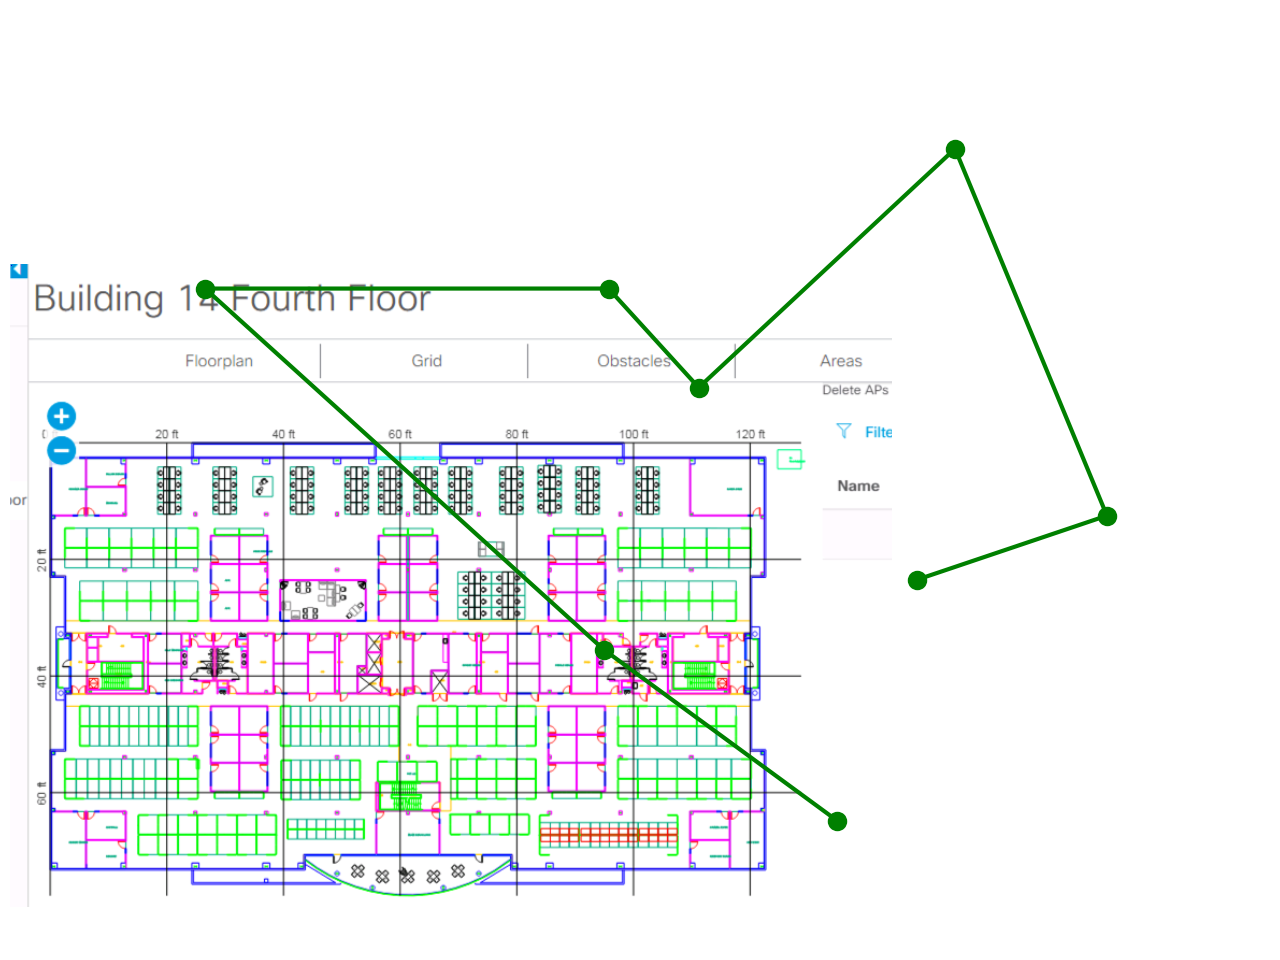
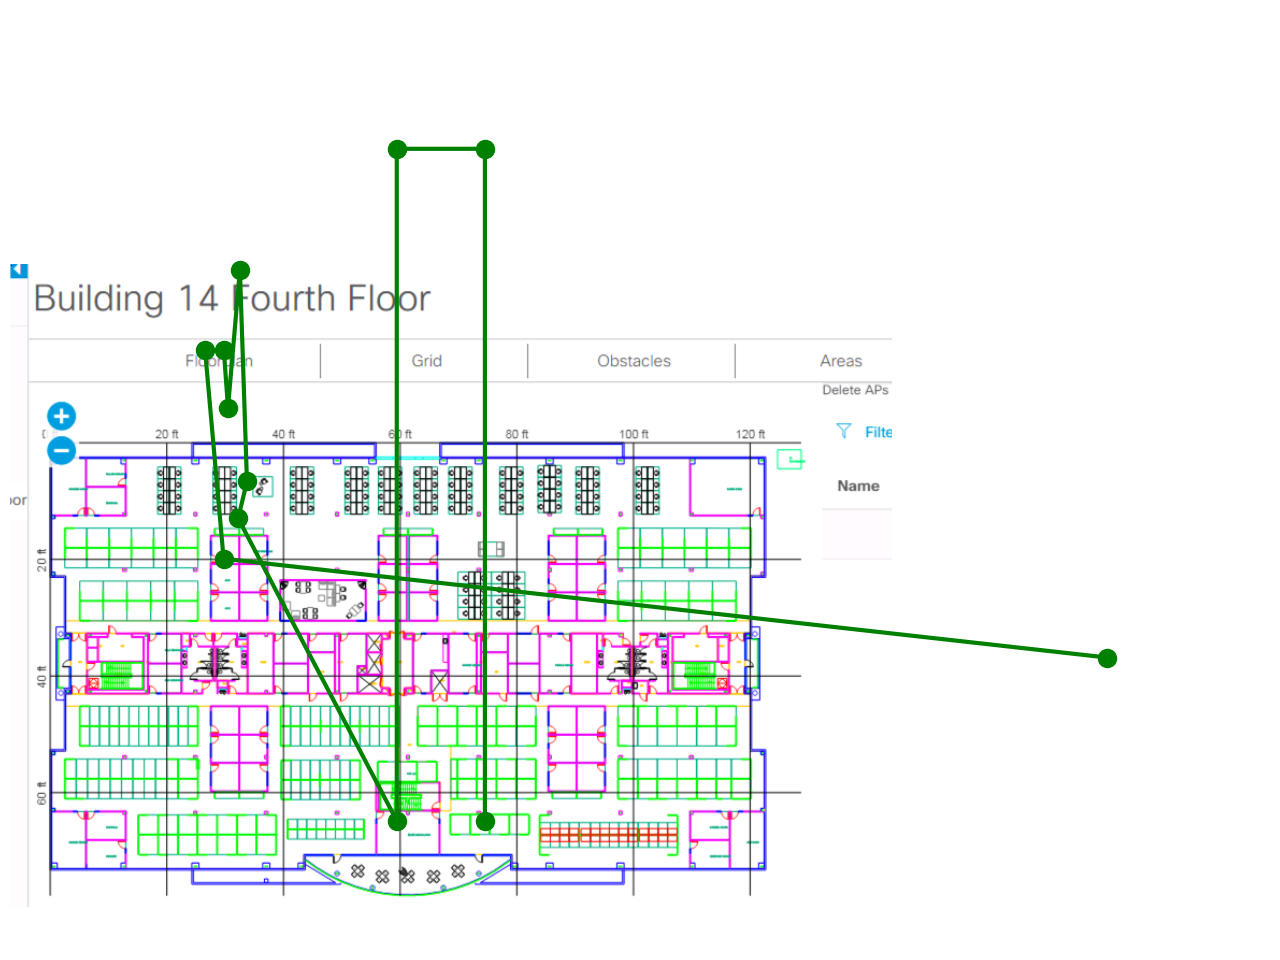
Half sensible graphing using static data

diff --git a/mac_history_pt_001.py b/mac_history_pt_001.py
@@ -1,0 +1,147 @@
+import sys
+import requests
+requests.packages.urllib3.disable_warnings()
+from requests.auth import HTTPBasicAuth
+import json
+import base64
+import time
+
+import matplotlib.path as mpath
+import matplotlib.patches as mpatches
+import matplotlib.image as image
+import matplotlib.pyplot as plt
+
+import numpy as np
+
+image_path = "./images/"
+image_name = 'FloorPlanCopy.png'
+original_image_name = 'FloorPlanOriginal.png'
+
+def main():
+  print("********************************************************");
+  print("* Cisco CMX MAC History Python 3 Utility               *");
+  print("* Please provide the input in the following format     *");
+  print("*                                                      *");
+  print("* macAddress: 00:00:2a:01:00:06                        *");
+  print("*                                                      *");
+  print("* Control C to exit                                    *");
+  print("********************************************************");
+
+  username = 'learning'
+  password = 'learning'
+  restURL1 = 'https://cmxlocationsandbox.cisco.com/api/location/v1/historylite/clients/'
+
+  x          = None
+  y          = None
+  chgOn      = None
+  flr        = None
+  macAddress = None
+
+  macAddress = input("macAddress: ")
+  try:
+      response = requests.get(
+      url = restURL1 +"/"+ macAddress,
+      auth = HTTPBasicAuth(username,password),
+      verify=False)
+
+      json_data = response.json()
+
+      ActCount = json_data["Count"] #actual count could be thousands, ie. 3000
+      count = 0
+      l = []
+      while (count < 10):
+
+          macAddress= json_data["Macaddress"]
+          x = json_data["Data"][count]["x"]
+          y = json_data["Data"][count]["y"]
+          chgOn = json_data["Data"][count]["chgOn"]
+          timestamp = time.ctime(int(chgOn)/1000)
+          flr = json_data["Data"][count]["flr"]
+
+          s = [timestamp, str(x), str(y), str(flr)]
+          l.append(s)
+
+          count = count + 1
+
+
+      print("----------------------------------------------------------------")
+      print(" Actual Count: ", ActCount, " (only showing 10 events)")
+      print(" Macaddress: ", macAddress)
+      print(" List contains timestamp, xCoordinates, yCoordinates , FloorId")
+      print("----------------------------------------------------------------")
+      for s in l:
+          print(list(s))
+
+
+      im = image.imread(image_path + original_image_name)
+      im[1, 1, 1] = 0 # set the alpha channel
+
+      fig, ax = plt.subplots()
+
+      ax.set_alpha(1)
+
+      Path = mpath.Path
+      path_data = [
+          (Path.MOVETO, (100.58, -2.57)),
+          (Path.LINETO, (0.35, -1.1)),
+          (Path.LINETO, (-1.75, 2.0)),
+          (Path.LINETO, (0.375, 2.0)),
+          (Path.LINETO, (0.85, 1.15)),
+          (Path.LINETO, (2.2, 3.2)),
+          (Path.LINETO, (3, 0.05)),
+          (Path.LINETO, (2.0, -0.5)),
+          
+          ]
+
+      path_data.append((Path.LINETO, (20.0, -5)))
+      path_data.append((Path.LINETO, (20.0, 5)))
+      path_data.append((Path.LINETO, (30.0, 5)))
+      path_data.append((Path.LINETO, (30.0, -5)))
+      codes, verts = zip(*path_data)
+      path = mpath.Path(verts, codes)
+
+
+
+      x, y = zip(*path.vertices)
+      line, = ax.plot(x, y, 'go-')
+
+
+
+      fig.figimage(im, 10, 10, zorder=-11)
+
+
+      ax.grid('off')
+      ax.axis('off')
+
+      plt.savefig(image_path + image_name, format='png', dpi=200)
+
+      plt.show()
+
+
+  except requests.exceptions.RequestException as e:
+      print(e)
+
+
+if __name__ == '__main__':
+    main()
+
+'''
+Response from GET request
+https://<cmx_ip>/api/location/v1/historylite/clients/00:00:2a:01:00:06
+
+{
+  "Data": [
+    {
+      "x": 209.99107,
+      "y": 38.91461,
+      "flr": "723413320329068590",
+      "chgOn": "1492780699608",
+      "s": "1",
+      "ssid": "test",
+      "ap": "00:2b:01:00:02:00",
+      "un": "",
+      "ip": "10.10.20.165",
+      "lat": -999,
+      "long": -999
+    },
+'''
